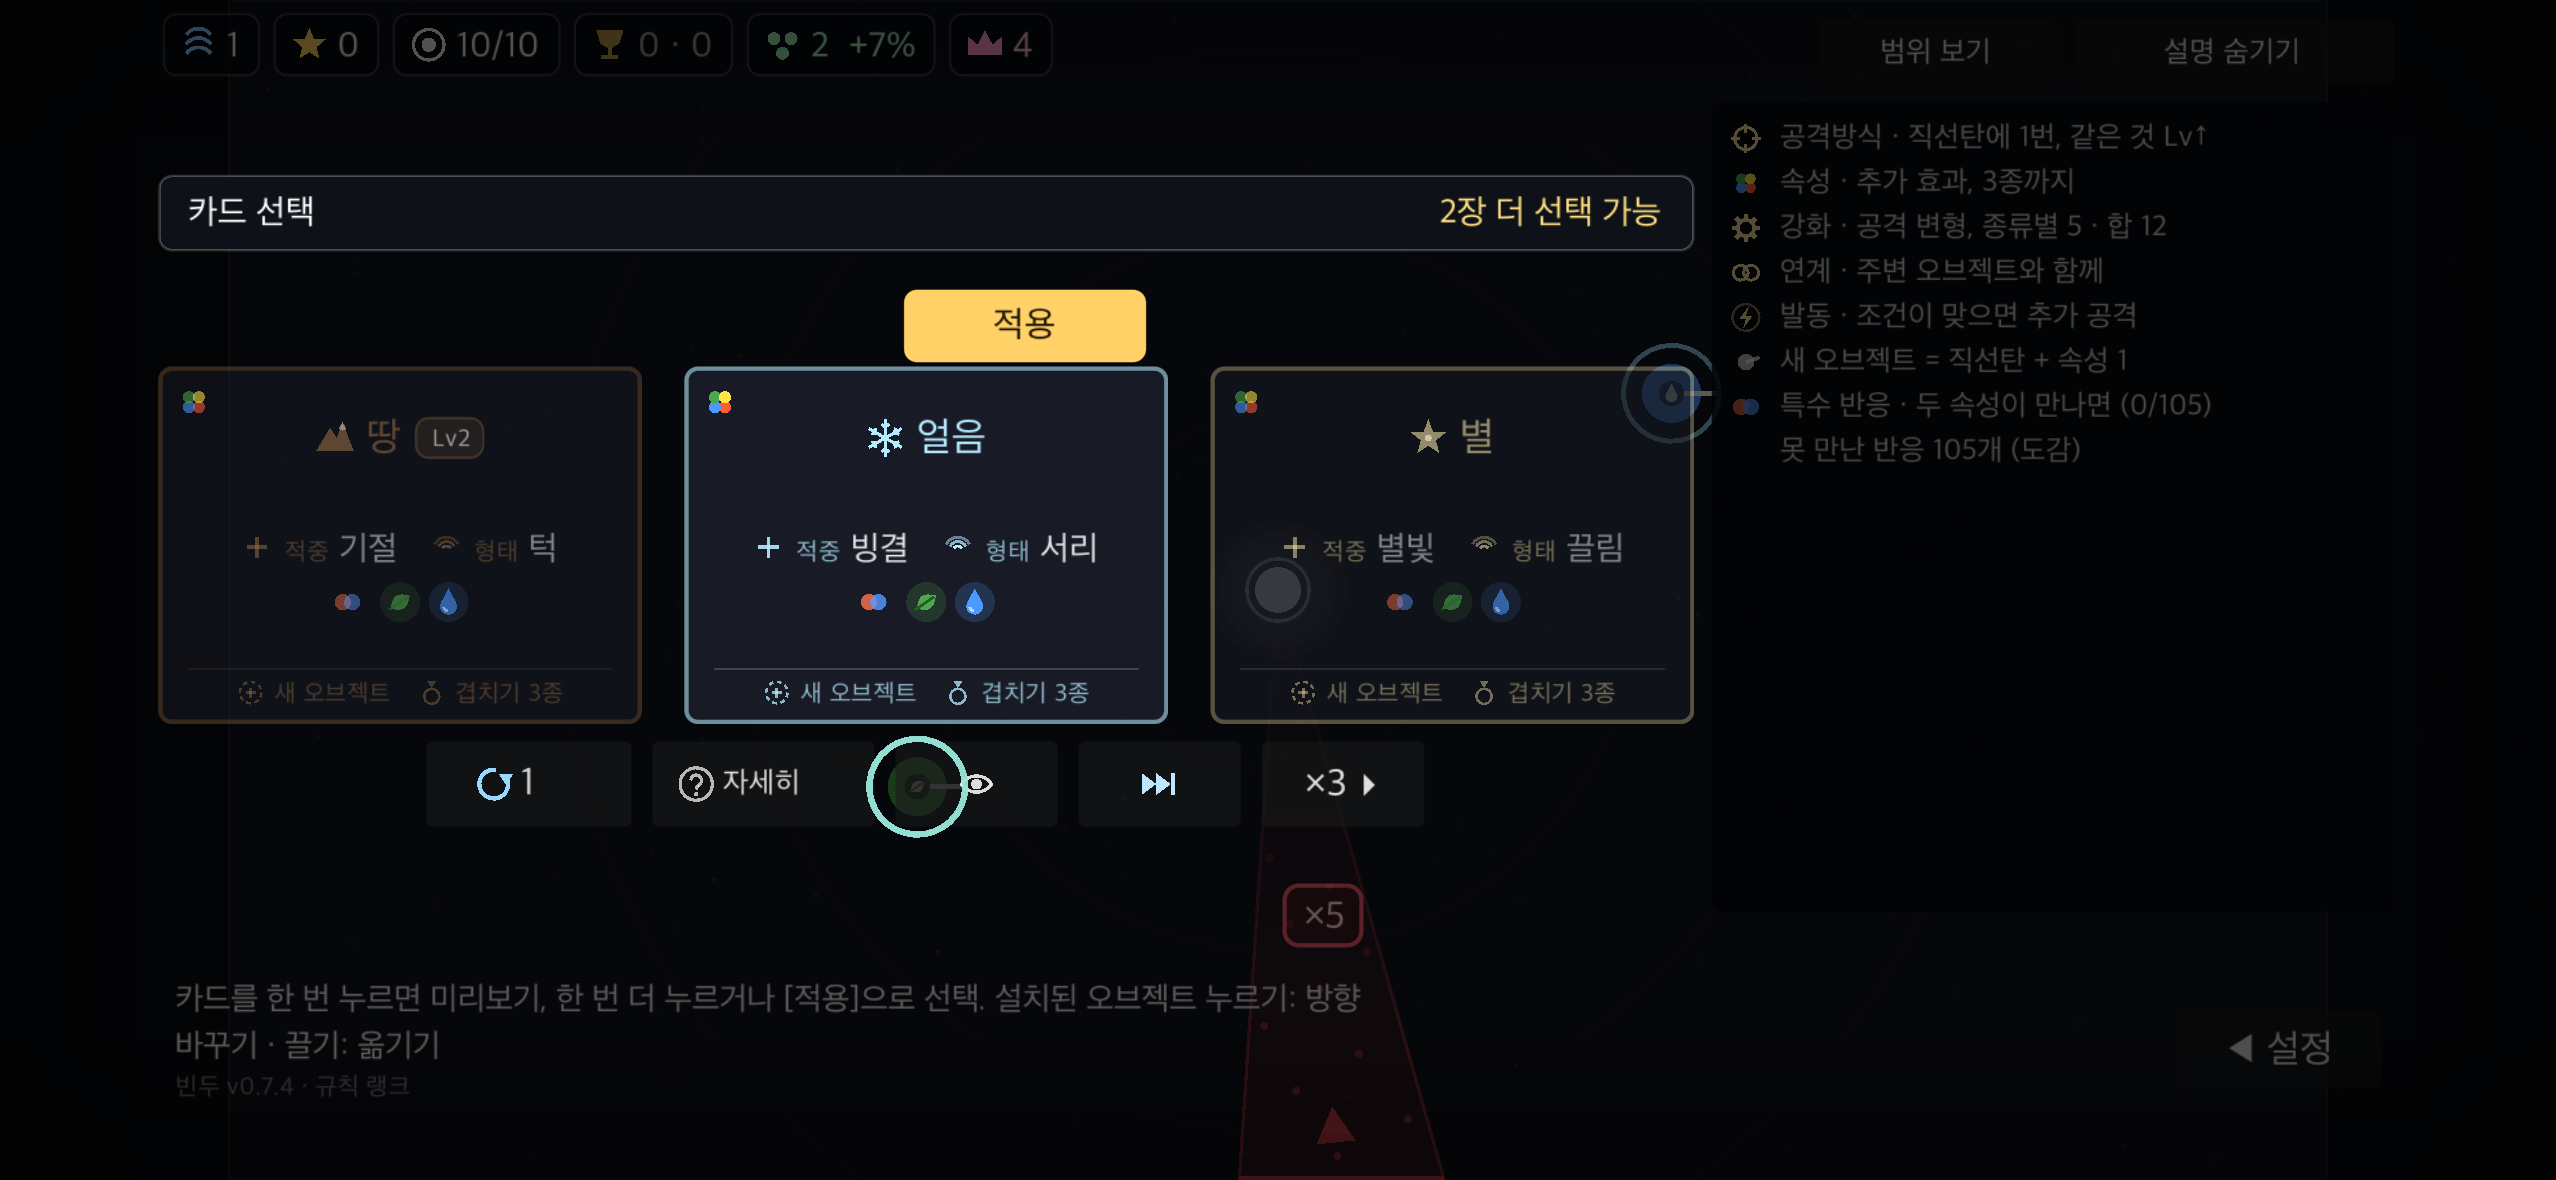
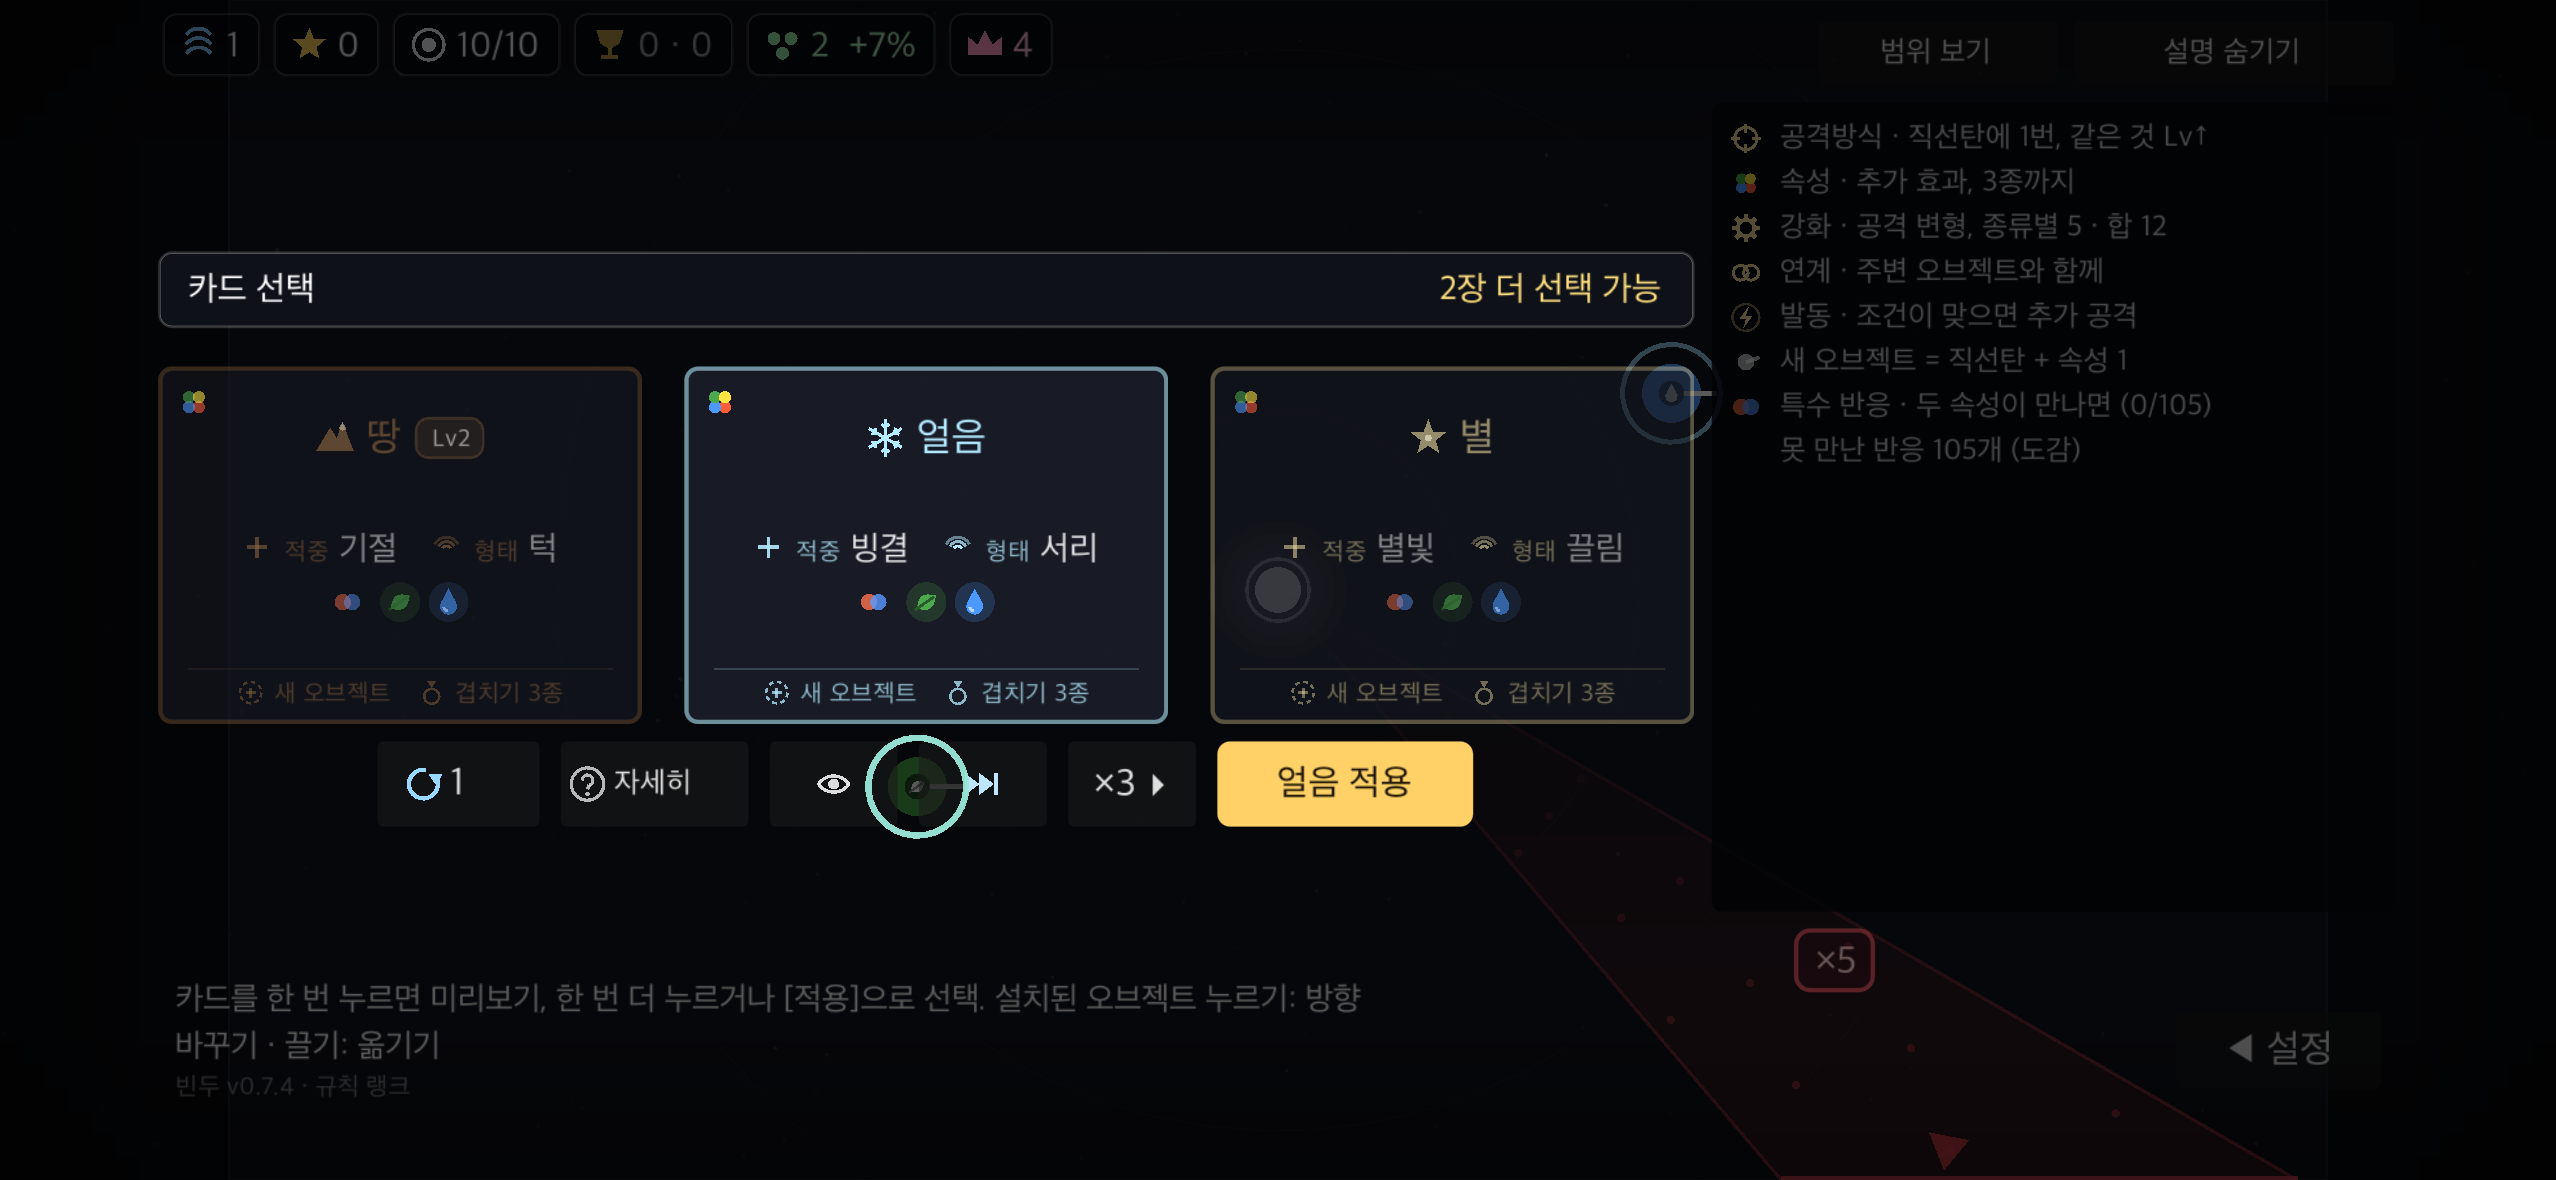
fix(ui): 카드 적용 버튼을 조작 줄에 배치
- 선택 카드 이름을 적용 버튼에 표시하고 조작 줄 정렬
- 카드 위 불필요한 공간 제거 및 배치 회귀 검사 보강
- 수정된 터치 화면과 QA 기록 갱신

diff --git a/docs/features.md b/docs/features.md
@@ -278,7 +278,7 @@
 | UI-11 | 처음 안내 | 처음 생기는 일에 한 줄 안내, 안내마다 한 번, 설정에서 끄기·다시 보기 | shot, 수동 |
 | UI-12 | 설정 | 음량·글자 크기(100·115·130%)·흔들림·피해 숫자·속성 기호·체력 숫자·효과 줄이기 | fuzz, shot |
 | UI-13 | 패치노트 | CHANGELOG의 `## 제목 (vX.Y.Z)` 절이 게임 안 패치노트, 미배포 절은 안 보임. 줄마다 종류 칩(고침·새로움·조정·화면·바뀜, 낱말 자동 분류), 제목 굵게, `A → B` 숫자 새 값 강조, 지금·새 버전만 펼치고 옛 버전은 눌러서 펼침 | 수동 (`gen_patch_notes.gd`) |
-| UI-14 | 폰 카드 고르기 | 터치는 카드를 한 번 누르면 미리보기(다른 카드 옅게, 오른쪽 위 [적용]), 같은 카드를 한 번 더 누르거나 [적용]으로 고름. 마우스·숫자 키는 바로 | spec, shot |
+| UI-14 | 폰 카드 고르기 | 터치는 카드를 한 번 누르면 미리보기(다른 카드 옅게, 카드 아래 조작 줄에 [카드 이름 적용]), 같은 카드를 한 번 더 누르거나 카드 아래 조작 줄의 [카드 이름 적용]으로 고름. 마우스·숫자 키는 바로 | spec, shot |
 | UI-15 | 폰 안전 영역 | 폰·태블릿은 노치·둥근 모서리·홈 막대 밖에 UI를 두지 않음(전장·배경·일시정지 어둠은 화면 끝까지) | 수동 (실기기) |
 | UI-16 | 터치 정보창 | 누른 뒤 3초 지나면 정보창 닫힘, 방향 바꾸기 중엔 그 오브젝트 정보창(손가락 반대편), [자세히]로 Shift 수치, 아이콘 버튼을 누르면 이름·상태 글 | shot, 수동 |
 | UI-17 | 폰 버튼 크기 | 폰은 시작 화면의 맵·규칙 설명 줄과 게임 소개 줄을 빼고 버튼을 키움, 설정 창은 켜기·끄기 줄을 두 칸에 줄 높이 52 | shot |
@@ -292,7 +292,7 @@
 | UI-25 | 넣을 오브젝트 설명 | 카드를 넣는 단계에서 오브젝트에 올리면 바뀌는 점을 어두운 상자에 담아 오브젝트 위층(fx_layer)에, 다른 오브젝트·중앙을 가장 덜 가리는 자리(위·아래·옆, 멀면 가는 선)에 띄운다. 넣기 전·후 글은 숫자만 다르면 "3→4개"처럼 한 줄로 합치고 "(이미 들어 있음, 겹쳐서 세짐)"은 뺀다. 올린 동안 다른 넣을 수 있는 오브젝트는 얇은 고리만, 새로 놓을 수 없는 카드이거나 오브젝트에 올린 동안 모든 별·바람 둘레는 그리지 않는다 | spec, shot |
 | UI-26 | 오브젝트 정보창 두 단계 | 기본(올리기·터치 누르기)은 이름 한 줄 + 피해·초당 공격 횟수(변화 %)·치명타(빛이 있을 때 확률·배율)·지난(이번) 웨이브 피해와 몫만, 범위는 그 오브젝트 공격 범위만(별 흡수 둘레·바람 버프 둘레·받는 별 둘레 없음). Shift(터치 [자세히])는 계산 내역이 붙은 수치 + 공격방식·속성 효과·강화·반응 설명 + 바람 버프, 주변 별·바람 둘레까지. 자세히가 화면을 넘으면 내역 줄 → 속성·반응 한 줄 순으로 줄이고, 터치에선 [간단히] 버튼 위까지만 | spec, shot (`tools/tip_shot.gd`) |
 | UI-27 | 진입 부채꼴 | 진입 방향마다 구체가 실제로 올 수 있는 범위(방향 각도 ± 다음 웨이브 폭, 웨이브 11 ±15°·25부터 ±23°, 십자로 ±3°)를 옅은 빨간 부채꼴·테두리·가장자리 입구 막대로, 흐르는 점은 폭 전체에. 소용돌이는 나선 띠, 회랑은 없음. 웨이브 중엔 더 옅게. 화면 폭과 구체 각도는 같은 값(`lane_spread`) | spec, shot |
-| UI-28 | 남은 카드 선택 안내 | 일반 판 선택 화면은 카드 줄 전체 폭의 독립 헤더에 '카드 선택'과 'N장 더 선택 가능'을 표시. 카드와 18 이상 간격, 터치 [적용]·첫 판 안내·봉인 칩·자세히 창과 겹치지 않음. 남은 장수 즉시 갱신, 특성·필드 보기·카드를 고른 뒤·일시정지·정원은 숨김 | spec, shot |
+| UI-28 | 남은 카드 선택 안내 | 일반 판 선택 화면은 카드 줄 전체 폭의 독립 헤더에 '카드 선택'과 'N장 더 선택 가능'을 표시. 카드와 18 이상 간격, 터치 조작 줄·첫 판 안내·봉인 칩·자세히 창과 겹치지 않음. 남은 장수 즉시 갱신, 특성·필드 보기·카드를 고른 뒤·일시정지·정원은 숨김 | spec, shot |
 | SKIP-01 | 웨이브 넘기기 조건 | 오브젝트가 있을 때만, 첫 판은 카드가 다 열린 뒤 | spec |
 | SKIP-02 | 웨이브 넘기기 | 이번 고르기를 쌓아 두고 n웨이브(1·3·5·10) 진행, 멈추면 쌓인 특성·카드·새로고침을 한꺼번에, 중앙 위험이면 멈춤 | spec, bot (`SKIP=n`) |
 | SKIP-03 | 고른 뒤 넘기기 | 카드를 다 고르고 웨이브 시작 대기일 때도 [웨이브 시작] 오른쪽에 [넘기기]·[×N] 버튼(S 키), 누르면 남은 새로고침을 쌓고 n웨이브 진행 | spec, shot |

diff --git a/CHANGELOG.md b/CHANGELOG.md
@@ -1,6 +1,7 @@
 # 개선 100회 기록
 
 ### 다음 버전 (미배포)
+- 터치로 카드를 미리 볼 때 적용 버튼을 카드 아래 조작 줄에 모았어요. 선택한 카드 이름을 함께 보여 줘 무엇을 적용하는지 알 수 있어요
 - 남은 카드 선택 횟수를 카드 줄 전체의 안내로 분리했어요. '카드 선택'과 '몇 장 더 선택 가능한지'를 카드와 떨어뜨려 보여 줘 가운데 카드의 설명으로 오해하지 않게 했어요
 - 붙잡기 범위 안 구체가 모두 기절·속박 면역이면 다시 쓰기 대기시간을 쓰지 않아요. 직접 사용하면 면역 중임을 알려 주고 다른 곳을 고를 수 있어요
 - 레이저가 50% 굵어졌어요. 맞는 폭과 빛줄기 두께가 함께 커지고, 범위 미리보기도 같은 폭으로 보여요
